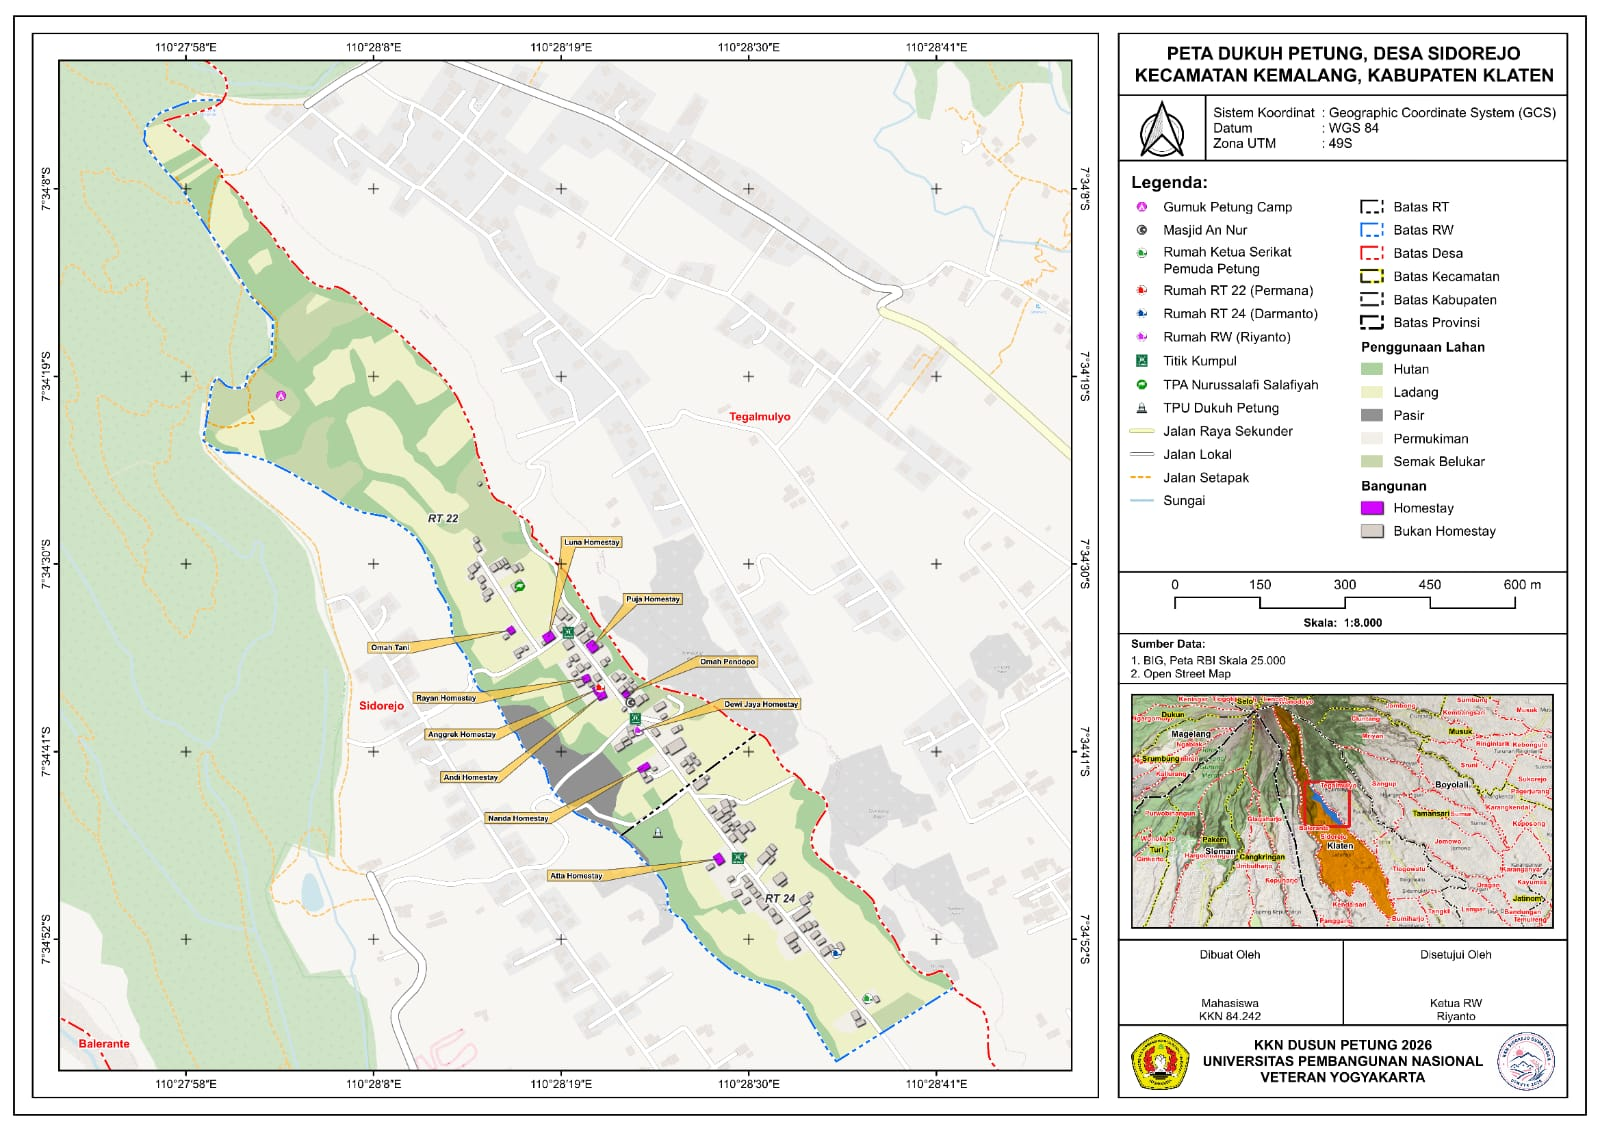
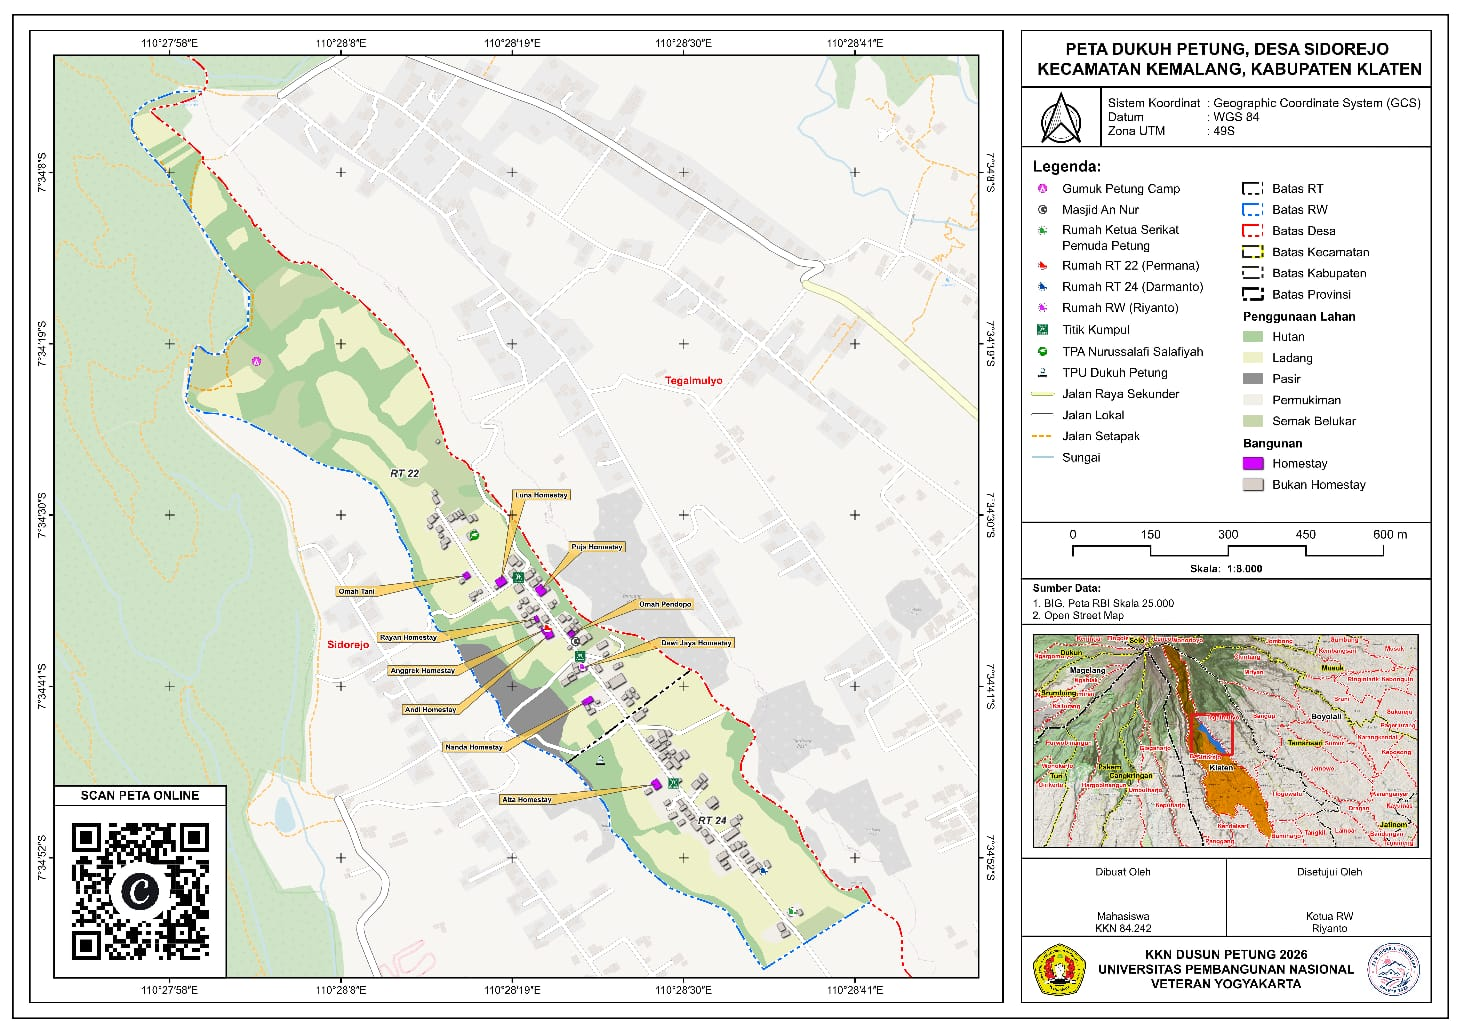
feat: optimize admin mobile UI and add demographic map CRUD

diff --git a/frontend/src/pages/Admin.tsx b/frontend/src/pages/Admin.tsx
@@ -125,15 +125,18 @@ export function AdminPage({
   const [villageNameInput, setVillageNameInput] = useState(settings?.village_name || "");
   const [logoUrlInput, setLogoUrlInput] = useState(settings?.logo_url || "");
   const [heroImageUrlInput, setHeroImageUrlInput] = useState(settings?.hero_image_url || "");
+  const [mapImageUrlInput, setMapImageUrlInput] = useState(settings?.map_image_url || "");
   const [phoneNumberInput, setPhoneNumberInput] = useState(settings?.phone_number || "");
   const [instagramUrlInput, setInstagramUrlInput] = useState(settings?.instagram_url || "");
   const [tiktokUrlInput, setTiktokUrlInput] = useState(settings?.tiktok_url || "");
   const [savingSettings, setSavingSettings] = useState(false);
   const [logoDragOver, setLogoDragOver] = useState(false);
   const [heroDragOver, setHeroDragOver] = useState(false);
+  const [mapDragOver, setMapDragOver] = useState(false);
 
   const logoFileRef = useRef<HTMLInputElement>(null);
   const heroFileRef = useRef<HTMLInputElement>(null);
+  const mapFileRef = useRef<HTMLInputElement>(null);
 
   // Live In States
   const [liveinHouses, setLiveinHouses] = useState<LiveInHouse[]>([]);
@@ -237,6 +240,7 @@ export function AdminPage({
       setVillageNameInput(settings.village_name || "");
       setLogoUrlInput(settings.logo_url || "");
       setHeroImageUrlInput(settings.hero_image_url || "");
+      setMapImageUrlInput(settings.map_image_url || "");
       setPhoneNumberInput(settings.phone_number || "");
       setInstagramUrlInput(settings.instagram_url || "");
       setTiktokUrlInput(settings.tiktok_url || "");
@@ -501,6 +505,9 @@ export function AdminPage({
       } else if (target === "hero") {
         setHeroImageUrlInput(fileUrl);
         showToast("Hero image berhasil diunggah!");
+      } else if (target === "map") {
+        setMapImageUrlInput(fileUrl);
+        showToast("Peta Demografi berhasil diunggah!");
       } else if (target === "doc") {
         setUploadedFile(fileUrl);
         setRawFile(file);
@@ -532,6 +539,7 @@ export function AdminPage({
         village_name: villageNameInput,
         logo_url: logoUrlInput,
         hero_image_url: heroImageUrlInput,
+        map_image_url: mapImageUrlInput,
         phone_number: phoneNumberInput,
         instagram_url: instagramUrlInput,
         tiktok_url: tiktokUrlInput
@@ -619,6 +627,25 @@ export function AdminPage({
         showToast("Foto banner berhasil diunggah!");
       } catch (err: any) {
         showToast(err.message || "Gagal mengunggah foto banner", "error");
+      }
+    }
+  };
+
+  // Drag and drop for Demographic Map
+  const onMapDragOver = (e: React.DragEvent) => { e.preventDefault(); setMapDragOver(true); };
+  const onMapDragLeave = () => { setMapDragOver(false); };
+  const onMapDrop = async (e: React.DragEvent) => {
+    e.preventDefault();
+    setMapDragOver(false);
+    const file = e.dataTransfer.files?.[0];
+    if (file && file.type.startsWith("image/")) {
+      try {
+        showToast("Sedang mengunggah peta...");
+        const fileUrl = await uploadMedia(file);
+        setMapImageUrlInput(fileUrl);
+        showToast("Peta Demografi berhasil diunggah!");
+      } catch (err: any) {
+        showToast(err.message || "Gagal mengunggah peta", "error");
       }
     }
   };
@@ -1409,6 +1436,7 @@ export function AdminPage({
       <input type="file" ref={heroFileRef} accept="image/*" className="hidden" onChange={e => handleFileChange(e, "hero")} />
       <input type="file" ref={liveinCoverFileRef} accept="image/*" className="hidden" onChange={e => handleFileChange(e, "livein-cover")} />
       <input type="file" ref={liveinGalleryFileRef} accept="image/*" multiple className="hidden" onChange={e => handleFileChange(e, "livein-gallery")} />
+      <input type="file" ref={mapFileRef} accept="image/*" className="hidden" onChange={e => handleFileChange(e, "map")} />
 
       {/* Backdrop overlay for mobile sidebar */}
       {isSidebarOpen && (
@@ -3248,6 +3276,48 @@ export function AdminPage({
                         </div>
                       </div>
 
+                      {/* Demographic Map */}
+                      <div className="sm:col-span-2 mt-2">
+                        <label className="block text-[13px] font-semibold text-[#5A5550] mb-2" style={{ fontFamily: "'Plus Jakarta Sans', sans-serif" }}>
+                          Peta Demografi / Administrasi Dusun
+                        </label>
+                        <div 
+                          onDragOver={onMapDragOver}
+                          onDragLeave={onMapDragLeave}
+                          onDrop={onMapDrop}
+                          onClick={() => handleFileUploadClick(mapFileRef)}
+                          className={`h-40 rounded-xl border-2 transition-all flex items-center justify-center overflow-hidden cursor-pointer relative ${
+                            mapDragOver 
+                              ? "border-[#3A6520] bg-[#3A6520]/5 border-dashed" 
+                              : "border-black/[0.08] bg-[#FAF9F5] hover:border-black/20 border-dashed"
+                          }`}
+                        >
+                          <div className="relative w-full h-full group">
+                            <img 
+                              src={mapImageUrlInput || "/images/profile/map.webp"} 
+                              alt="Peta Demografi" 
+                              className="w-full h-full object-contain bg-white" 
+                            />
+                            <div className="absolute inset-0 bg-black/35 opacity-0 group-hover:opacity-100 transition-opacity flex items-center justify-center text-white text-[11px] font-medium">
+                              Klik untuk mengganti
+                            </div>
+                            {mapImageUrlInput && (
+                              <button
+                                type="button"
+                                onClick={(e) => {
+                                  e.stopPropagation();
+                                  setMapImageUrlInput("");
+                                }}
+                                className="w-6 h-6 rounded-full bg-white border border-black/[0.1] text-[#5A5550] hover:text-red-600 flex items-center justify-center absolute top-2.5 right-2.5 transition z-10 cursor-pointer shadow-sm"
+                                title="Kembalikan ke Peta Default"
+                              >
+                                <X className="w-3.5 h-3.5" />
+                              </button>
+                            )}
+                          </div>
+                        </div>
+                      </div>
+
                     </div>
 
                   </div>
@@ -3329,6 +3399,7 @@ export function AdminPage({
                       setVillageNameInput(settings.village_name || "");
                       setLogoUrlInput(settings.logo_url || "");
                       setHeroImageUrlInput(settings.hero_image_url || "");
+                      setMapImageUrlInput(settings.map_image_url || "");
                       setPhoneNumberInput(settings.phone_number || "");
                       setInstagramUrlInput(settings.instagram_url || "");
                       setTiktokUrlInput(settings.tiktok_url || "");

diff --git a/frontend/src/pages/Profile.tsx b/frontend/src/pages/Profile.tsx
@@ -177,7 +177,7 @@ export function ProfilePage({ nav, settings }: ProfilePageProps) {
                 className="relative rounded-xl overflow-hidden border border-black/[0.08] bg-[#FAF9F5] p-3 cursor-pointer group shadow-inner"
               >
                 <img 
-                  src="/images/profile/map.webp" 
+                  src={settings?.map_image_url || "/images/profile/map.webp"} 
                   alt="Peta Dusun Petung" 
                   className="w-full h-auto rounded-lg object-contain max-h-[340px] mx-auto group-hover:scale-[1.01] transition-transform duration-500" 
                 />
@@ -367,7 +367,7 @@ export function ProfilePage({ nav, settings }: ProfilePageProps) {
             onClick={(e) => e.stopPropagation()}
           >
             <img 
-              src="/images/profile/map.webp" 
+              src={settings?.map_image_url || "/images/profile/map.webp"} 
               alt="Peta Dusun Petung Detail" 
               className="max-w-full max-h-[90vh] object-contain rounded-lg shadow-2xl bg-white p-2"
             />

diff --git a/backend/src/controllers/settingsController.js b/backend/src/controllers/settingsController.js
@@ -25,6 +25,7 @@ export const updateSettings = async (req, res, next) => {
       village_name,
       logo_url,
       hero_image_url,
+      map_image_url,
       phone_number,
       instagram_url,
       tiktok_url
@@ -40,12 +41,13 @@ export const updateSettings = async (req, res, next) => {
     // Execute update statement for ID = 1
     await db.execute({
       sql: `UPDATE settings 
-            SET village_name = ?, logo_url = ?, hero_image_url = ?, phone_number = ?, instagram_url = ?, tiktok_url = ?
+            SET village_name = ?, logo_url = ?, hero_image_url = ?, map_image_url = ?, phone_number = ?, instagram_url = ?, tiktok_url = ?
             WHERE id = 1`,
       args: [
         village_name,
         logo_url || null,
         hero_image_url || null,
+        map_image_url || null,
         phone_number || null,
         instagram_url || null,
         tiktok_url || null

diff --git a/backend/src/config/initDb.js b/backend/src/config/initDb.js
@@ -23,12 +23,21 @@ async function initDb() {
         village_name TEXT NOT NULL,
         logo_url TEXT,
         hero_image_url TEXT,
+        map_image_url TEXT,
         phone_number TEXT,
         instagram_url TEXT,
         tiktok_url TEXT
       );
     `);
     console.log('✓ Settings table created or verified.');
+
+    // Run migration check for map_image_url column
+    try {
+      await db.execute('ALTER TABLE settings ADD COLUMN map_image_url TEXT;');
+      console.log('✓ Migration: Added map_image_url column to settings table.');
+    } catch (err) {
+      // Column already exists or table doesn't support it yet
+    }
 
     // 3. Create Activities Table
     await db.execute(`

diff --git a/frontend/index.html b/frontend/index.html
@@ -7,7 +7,7 @@
       <meta name="viewport" content="width=device-width, initial-scale=1.0" />
       <title>Dusun Petung</title>
       <meta name="description" content="Website Resmi Dusun Petung, Desa Sidorejo, Kecamatan Kemalang, Kabupaten Klaten, Jawa Tengah." />
-      <meta name="robots" content="noindex, nofollow" />
+      <meta name="robots" content="index, follow" />
       <style>html, body { height: 100%; margin: 0; } #root { height: 100%; }</style>
       
     </head>
